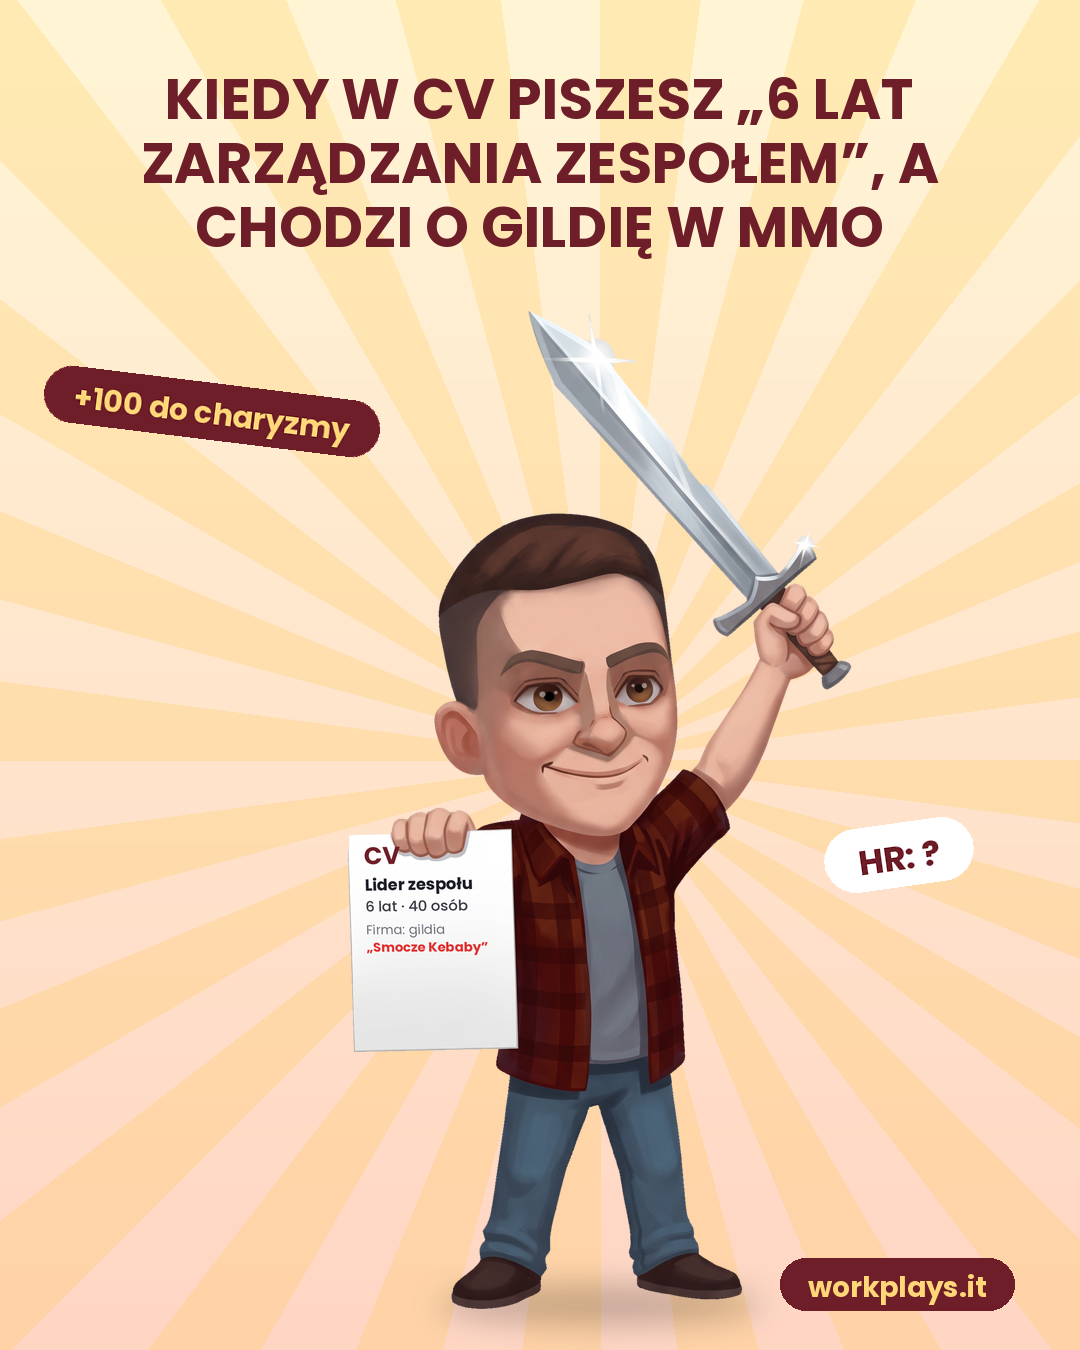
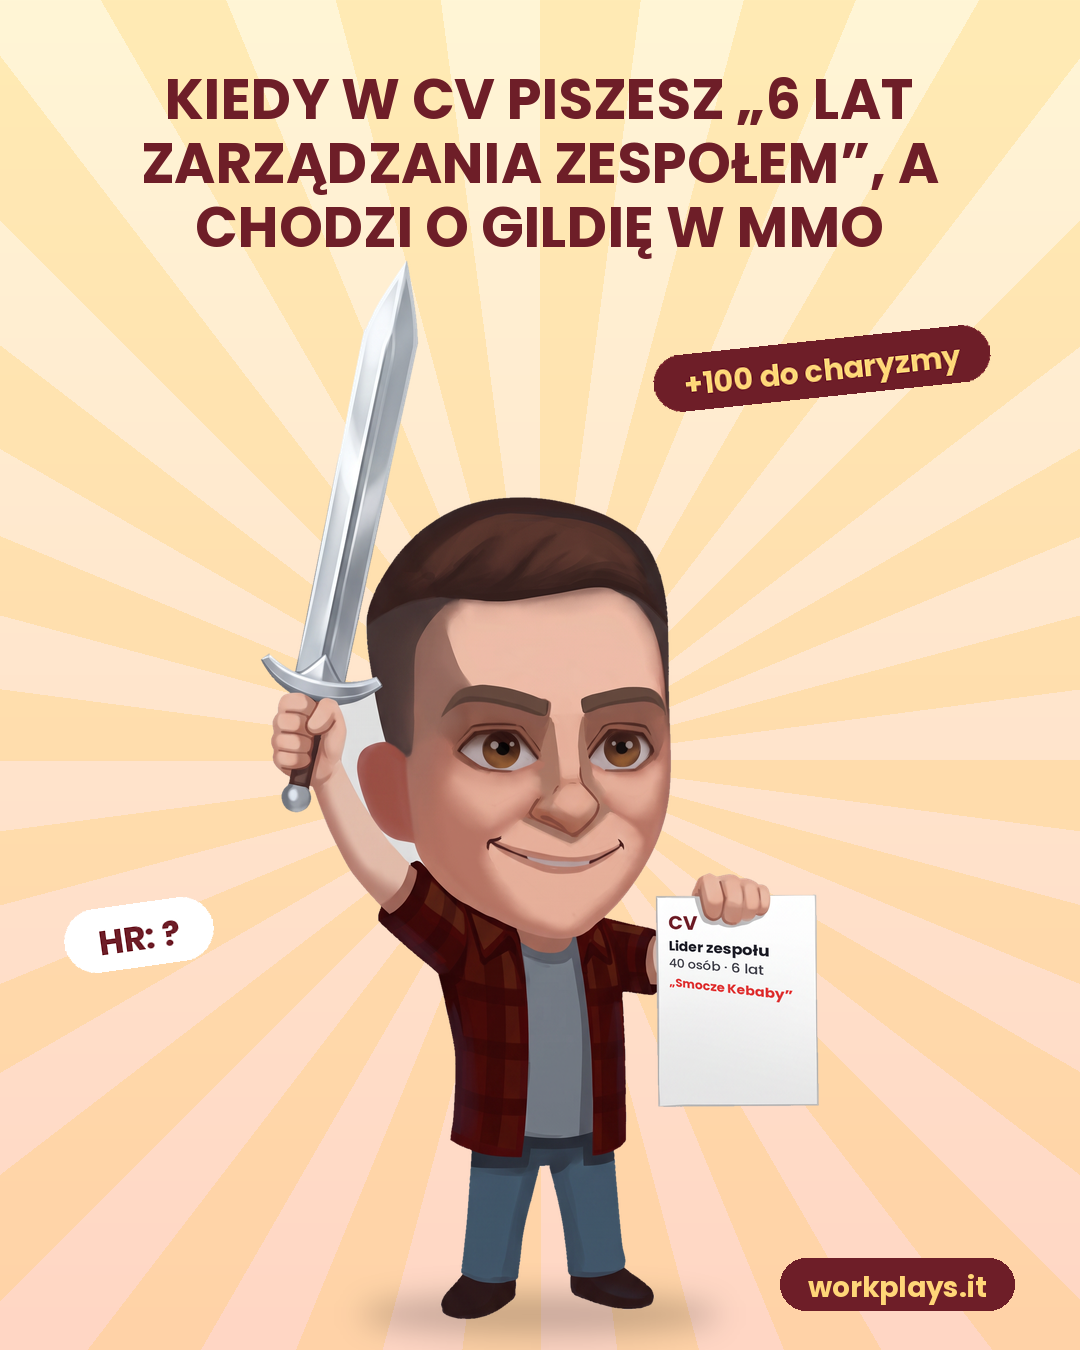
Pt mem: wariant pozy z proporcjami bliższymi oryginałowi
Claude-Session: https://claude.ai/code/session_01Nn5au7ZXVpmM36WEmgwW4G

diff --git a/templates/pose_memes.py b/templates/pose_memes.py
@@ -135,27 +135,26 @@ def czw(out):
 
 # ------------------------------------------------------------------ PT: słoneczny żółty + brzoskwinia, promienie
 def pt(out):
-    src = os.path.join(GEN, "pt-miecz-1.png")
+    src = os.path.join(GEN, "pt-miecz-2.png")
     img = vgrad(W, H, (255, 246, 214), (255, 214, 196))
     lay = Image.new("RGBA", (W, H), (0, 0, 0, 0)); ld = ImageDraw.Draw(lay)
-    cx, cy = 600, 760
+    cx, cy = 540, 760
     for i in range(24):
         a0 = i * 2 * math.pi / 24; a1 = a0 + math.pi / 24
         ld.polygon([(cx, cy), (cx + 1600 * math.cos(a0), cy + 1600 * math.sin(a0)), (cx + 1600 * math.cos(a1), cy + 1600 * math.sin(a1))], fill=(255, 196, 61, 55))
     img = Image.alpha_composite(img, lay)
     capy = caption(img, "Kiedy w CV piszesz „6 lat zarządzania zespołem”, a chodzi o gildię w MMO", (110, 30, 40), start=56)
-    q = quad_of(src, box=(300, 1320, 740, 1700))
-    sw, sh = 400, 340
+    q = quad_of(src, box=(1080, 1450, 1480, 1780))
+    sw, sh = 400, 324
     cv = Image.new("RGBA", (sw, sh), (0, 0, 0, 0)); d = ImageDraw.Draw(cv)
-    d.text((30, 4), "CV", font=pop(64, "Bold"), fill=(110, 30, 40))
-    d.text((30, 96), "Lider zespołu", font=pop(42, "Bold"), fill=(30, 30, 40))
-    d.text((30, 156), "6 lat · 40 osób", font=pop(38, "Medium"), fill=(60, 60, 70))
-    d.text((30, 220), "Firma: gildia", font=pop(34, "Regular"), fill=(110, 110, 120))
-    d.text((30, 266), "„Smocze Kebaby”", font=pop(34, "Bold"), fill=(220, 50, 50))
+    d.text((24, 30), "CV", font=pop(60, "Bold"), fill=(110, 30, 40))
+    d.text((24, 116), "Lider zespołu", font=pop(42, "Bold"), fill=(30, 30, 40))
+    d.text((24, 174), "40 osób · 6 lat", font=pop(38, "Medium"), fill=(60, 60, 70))
+    d.text((24, 238), "„Smocze Kebaby”", font=pop(36, "Bold"), fill=(220, 50, 50))
     fig = put_on_card(cutout(src), q, cv, inset=0.04)
-    img = place(img, fig, 1000, 600, 40)
-    pill(img, (40, capy + 110), "+100 do charyzmy", (110, 30, 40), (255, 214, 120), 30, -7)
-    pill(img, (820, capy + 560), "HR: ?", (255, 255, 255), (110, 30, 40), 34, 8)
+    img = place(img, fig, 1060, 540, 30)
+    pill(img, (650, capy + 70), "+100 do charyzmy", (110, 30, 40), (255, 214, 120), 30, 6)
+    pill(img, (60, capy + 640), "HR: ?", (255, 255, 255), (110, 30, 40), 34, 8)
     footer(img, (110, 30, 40), (255, 214, 120))
     img.convert("RGB").save(out)
 
